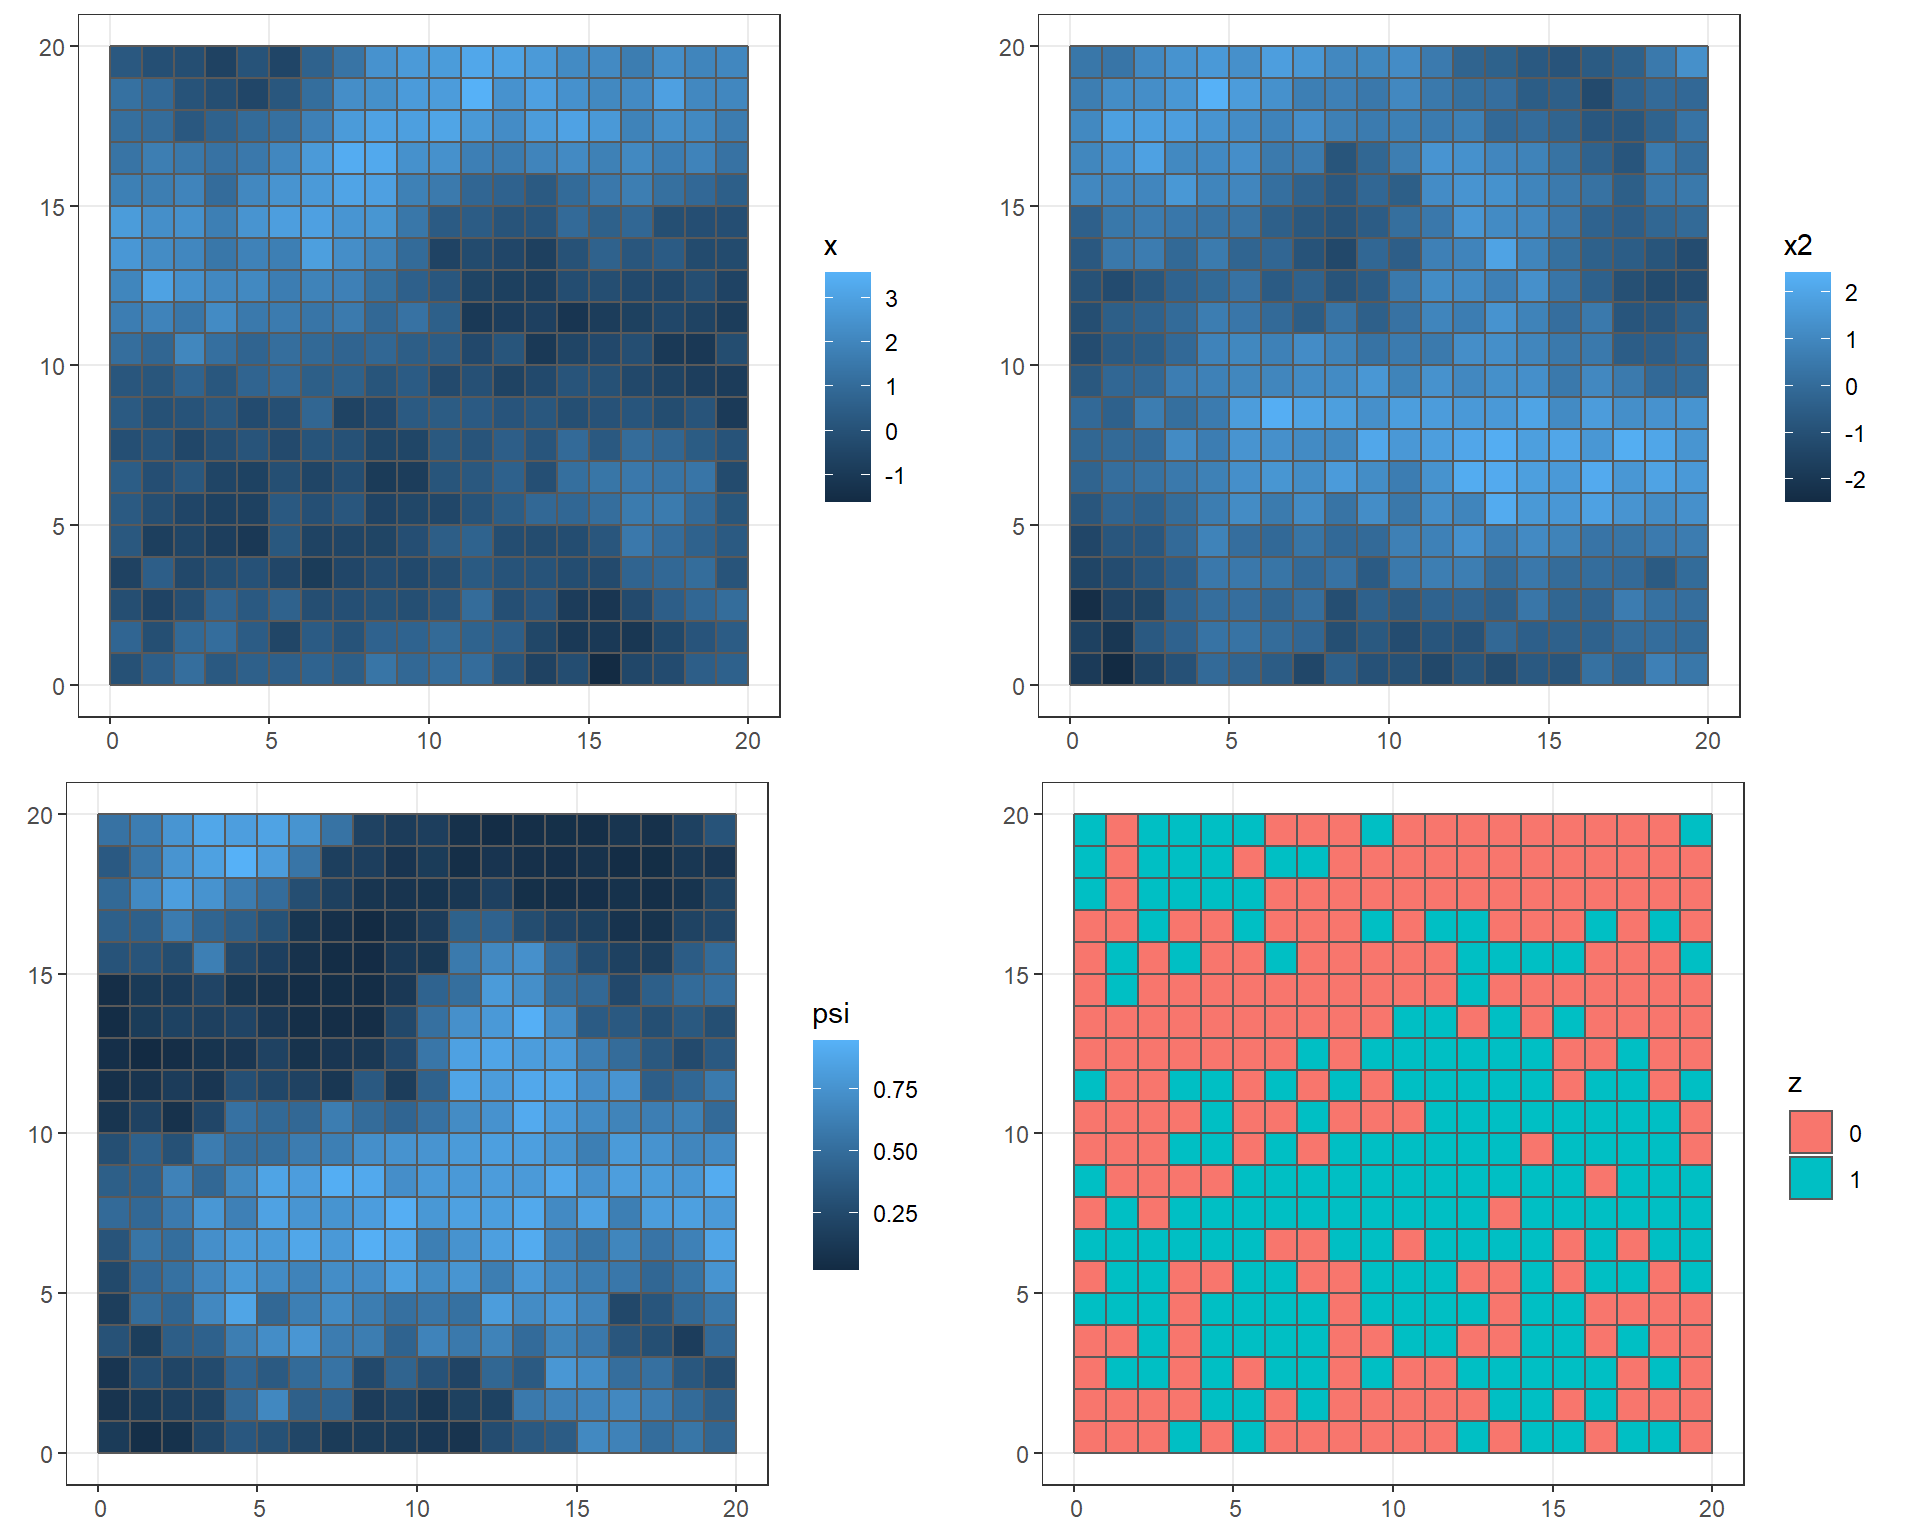
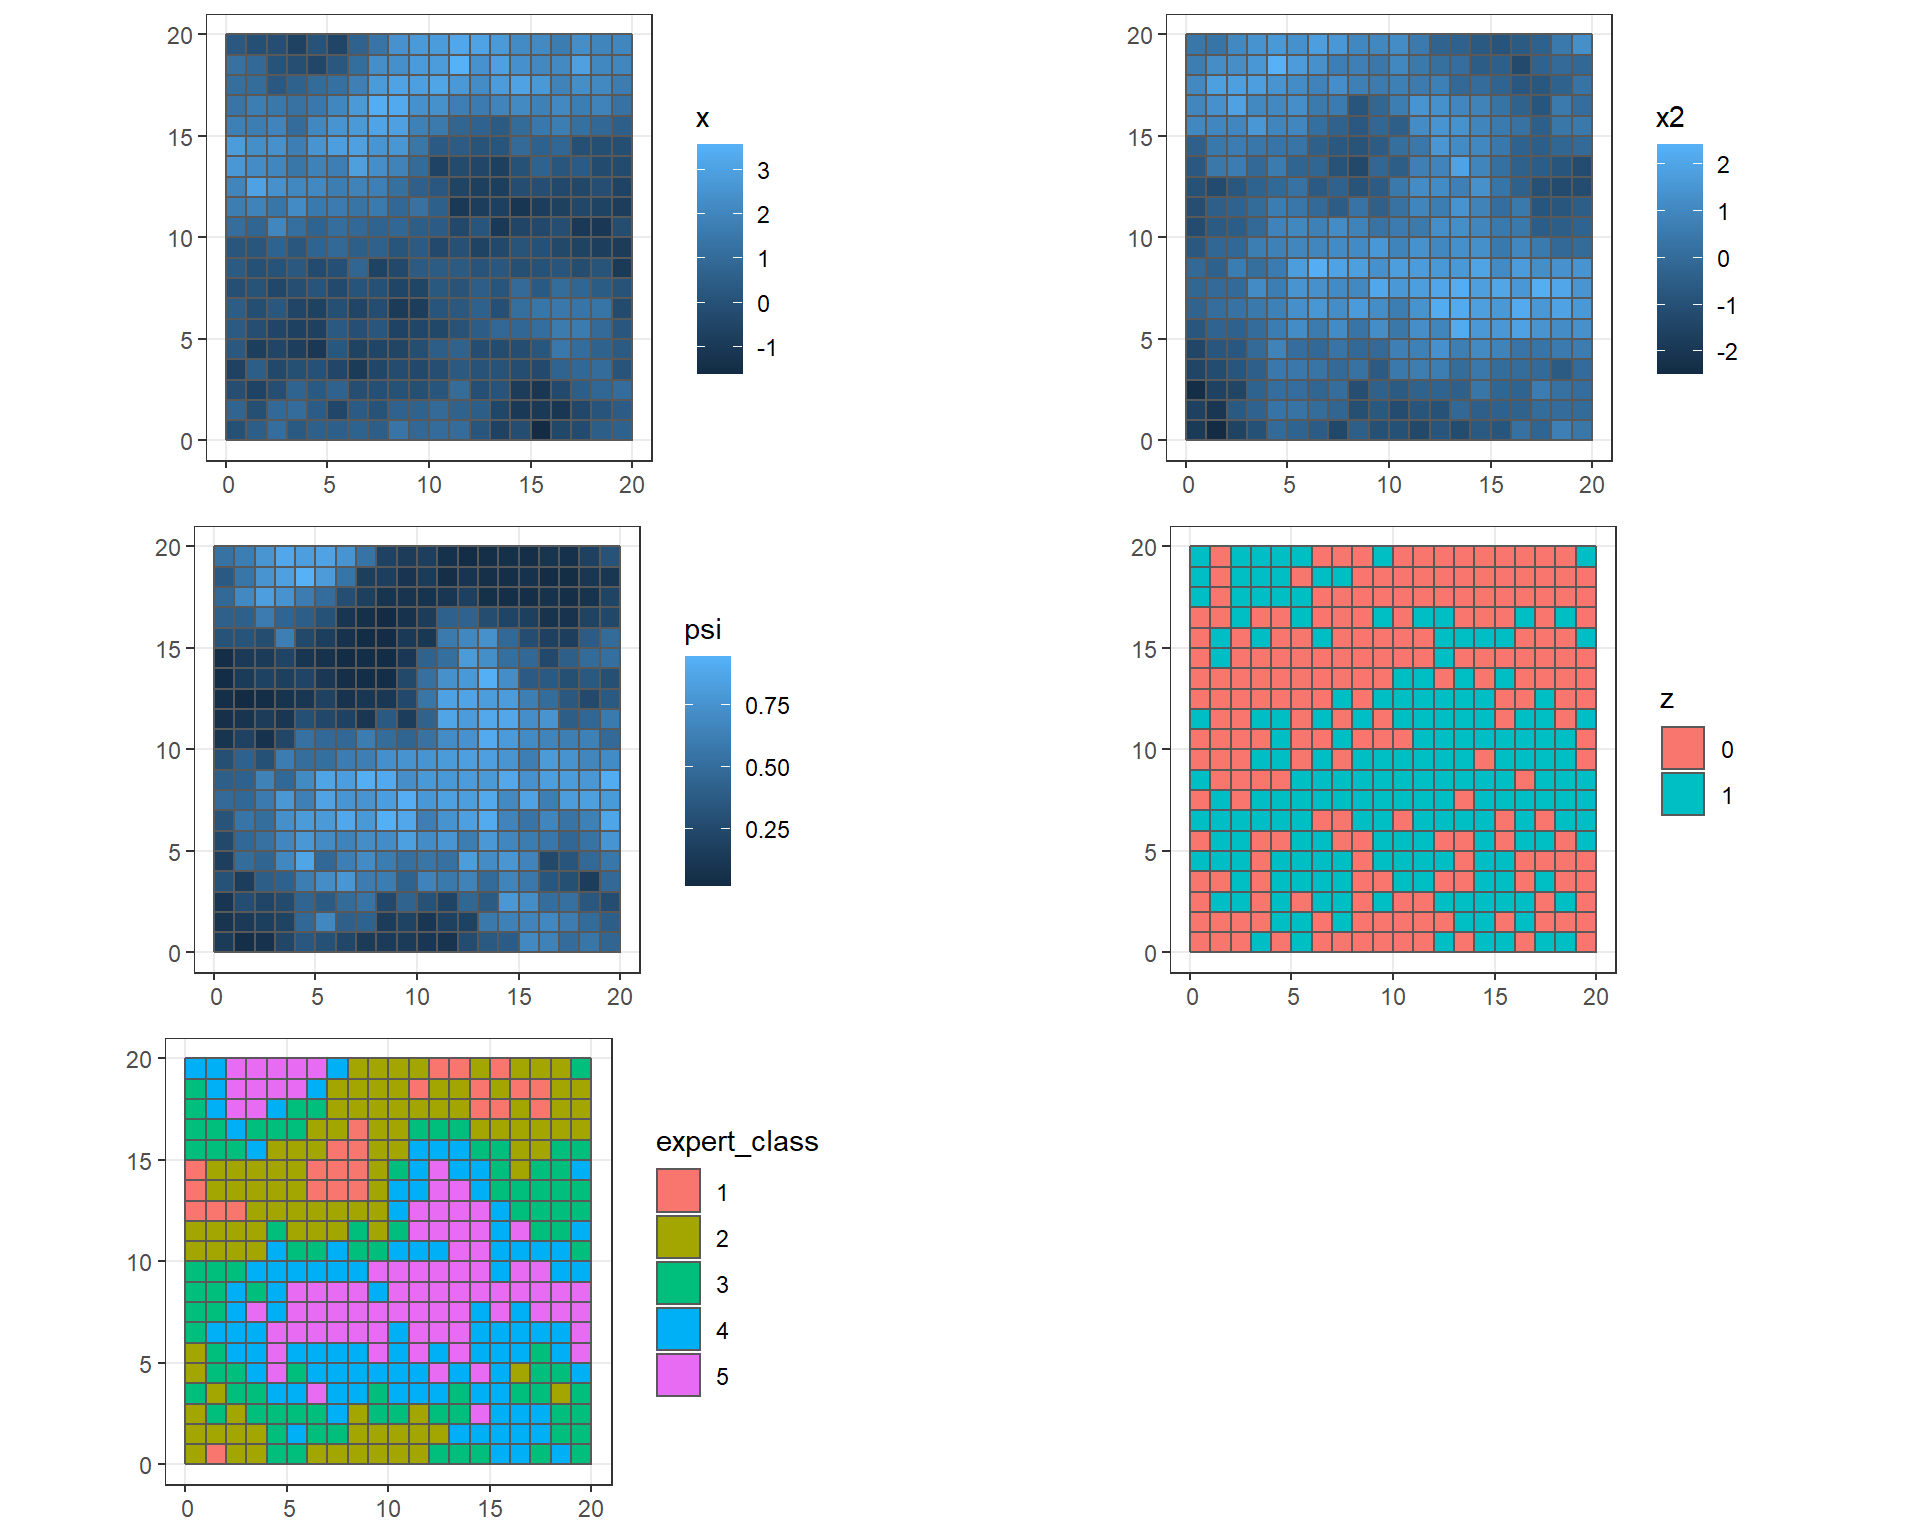
added map of expert specified classes

diff --git a/index.html b/index.html
@@ -115,8 +115,8 @@ code span.wa { color: #5e5e5e; font-style: italic; } /* Warning */
 
 
   <!--  https://schema.org/Article -->
-  <meta property="article:published" itemprop="datePublished" content="2022-10-14"/>
-  <meta property="article:created" itemprop="dateCreated" content="2022-10-14"/>
+  <meta property="article:published" itemprop="datePublished" content="2022-11-04"/>
+  <meta property="article:created" itemprop="dateCreated" content="2022-11-04"/>
   <meta name="article:author" content="Christian Stratton"/>
   <meta name="article:author" content="Kathryn Irvine"/>
   <meta name="article:author" content="Brad Udell"/>
@@ -138,7 +138,7 @@ code span.wa { color: #5e5e5e; font-style: italic; } /* Warning */
   <!--radix_placeholder_rmarkdown_metadata-->
 
   <script type="text/json" id="radix-rmarkdown-metadata">
-  {"type":"list","attributes":{"names":{"type":"character","attributes":{},"value":["title","description","author","date","output","bibliography","csl"]}},"value":[{"type":"character","attributes":{},"value":["Statistical methods for incoporating expert elicitation in occupancy modeling frameworks"]},{"type":"character","attributes":{},"value":["A simulation study in implementation of hierarchical models to accommodate expert elicitation with bat occupancy data\n"]},{"type":"list","attributes":{},"value":[{"type":"list","attributes":{"names":{"type":"character","attributes":{},"value":["name","affiliation","affiliation_url"]}},"value":[{"type":"character","attributes":{},"value":["Christian Stratton"]},{"type":"character","attributes":{},"value":["Montana State University"]},{"type":"character","attributes":{},"value":["https://math.montana.edu/"]}]},{"type":"list","attributes":{"names":{"type":"character","attributes":{},"value":["name","affiliation","affiliation_url"]}},"value":[{"type":"character","attributes":{},"value":["Kathryn Irvine"]},{"type":"character","attributes":{},"value":["USGS Northern Rocky Mountain Science Center"]},{"type":"character","attributes":{},"value":["https://www.usgs.gov/centers/norock"]}]},{"type":"list","attributes":{"names":{"type":"character","attributes":{},"value":["name","affiliation","affiliation_url"]}},"value":[{"type":"character","attributes":{},"value":["Brad Udell"]},{"type":"character","attributes":{},"value":["USGS Fort Collins Science Center"]},{"type":"character","attributes":{},"value":["https://www.usgs.gov/centers/fort-collins-science-center"]}]},{"type":"list","attributes":{"names":{"type":"character","attributes":{},"value":["name","affiliation","affiliation_url"]}},"value":[{"type":"character","attributes":{},"value":["Brian Reichert"]},{"type":"character","attributes":{},"value":["USGS Fort Collins Science Center"]},{"type":"character","attributes":{},"value":["https://www.usgs.gov/centers/fort-collins-science-center"]}]}]},{"type":"character","attributes":{},"value":["2022-10-14"]},{"type":"list","attributes":{"names":{"type":"character","attributes":{},"value":["distill::distill_article"]}},"value":[{"type":"list","attributes":{"names":{"type":"character","attributes":{},"value":["self_contained","toc","toc_depth"]}},"value":[{"type":"logical","attributes":{},"value":[false]},{"type":"logical","attributes":{},"value":[true]},{"type":"integer","attributes":{},"value":[2]}]}]},{"type":"character","attributes":{},"value":["bibliography.bib"]},{"type":"character","attributes":{},"value":["biometrics_notes.csl"]}]}
+  {"type":"list","attributes":{"names":{"type":"character","attributes":{},"value":["title","description","author","date","output","bibliography","csl"]}},"value":[{"type":"character","attributes":{},"value":["Statistical methods for incoporating expert elicitation in occupancy modeling frameworks"]},{"type":"character","attributes":{},"value":["A simulation study in implementation of hierarchical models to accommodate expert elicitation with bat occupancy data\n"]},{"type":"list","attributes":{},"value":[{"type":"list","attributes":{"names":{"type":"character","attributes":{},"value":["name","affiliation","affiliation_url"]}},"value":[{"type":"character","attributes":{},"value":["Christian Stratton"]},{"type":"character","attributes":{},"value":["Montana State University"]},{"type":"character","attributes":{},"value":["https://math.montana.edu/"]}]},{"type":"list","attributes":{"names":{"type":"character","attributes":{},"value":["name","affiliation","affiliation_url"]}},"value":[{"type":"character","attributes":{},"value":["Kathryn Irvine"]},{"type":"character","attributes":{},"value":["USGS Northern Rocky Mountain Science Center"]},{"type":"character","attributes":{},"value":["https://www.usgs.gov/centers/norock"]}]},{"type":"list","attributes":{"names":{"type":"character","attributes":{},"value":["name","affiliation","affiliation_url"]}},"value":[{"type":"character","attributes":{},"value":["Brad Udell"]},{"type":"character","attributes":{},"value":["USGS Fort Collins Science Center"]},{"type":"character","attributes":{},"value":["https://www.usgs.gov/centers/fort-collins-science-center"]}]},{"type":"list","attributes":{"names":{"type":"character","attributes":{},"value":["name","affiliation","affiliation_url"]}},"value":[{"type":"character","attributes":{},"value":["Brian Reichert"]},{"type":"character","attributes":{},"value":["USGS Fort Collins Science Center"]},{"type":"character","attributes":{},"value":["https://www.usgs.gov/centers/fort-collins-science-center"]}]}]},{"type":"character","attributes":{},"value":["2022-11-04"]},{"type":"list","attributes":{"names":{"type":"character","attributes":{},"value":["distill::distill_article"]}},"value":[{"type":"list","attributes":{"names":{"type":"character","attributes":{},"value":["self_contained","toc","toc_depth"]}},"value":[{"type":"logical","attributes":{},"value":[false]},{"type":"logical","attributes":{},"value":[true]},{"type":"integer","attributes":{},"value":[2]}]}]},{"type":"character","attributes":{},"value":["bibliography.bib"]},{"type":"character","attributes":{},"value":["biometrics_notes.csl"]}]}
   </script>
   <!--/radix_placeholder_rmarkdown_metadata-->
   
@@ -1514,7 +1514,7 @@ code span.wa { color: #5e5e5e; font-style: italic; } /* Warning */
 <!--radix_placeholder_front_matter-->
 
 <script id="distill-front-matter" type="text/json">
-{"title":"Statistical methods for incoporating expert elicitation in occupancy modeling frameworks","description":"A simulation study in implementation of hierarchical models to accommodate expert elicitation with bat occupancy data","authors":[{"author":"Christian Stratton","authorURL":"#","affiliation":"Montana State University","affiliationURL":"https://math.montana.edu/","orcidID":""},{"author":"Kathryn Irvine","authorURL":"#","affiliation":"USGS Northern Rocky Mountain Science Center","affiliationURL":"https://www.usgs.gov/centers/norock","orcidID":""},{"author":"Brad Udell","authorURL":"#","affiliation":"USGS Fort Collins Science Center","affiliationURL":"https://www.usgs.gov/centers/fort-collins-science-center","orcidID":""},{"author":"Brian Reichert","authorURL":"#","affiliation":"USGS Fort Collins Science Center","affiliationURL":"https://www.usgs.gov/centers/fort-collins-science-center","orcidID":""}],"publishedDate":"2022-10-14T00:00:00.000-06:00","citationText":"Stratton, et al., 2022"}
+{"title":"Statistical methods for incoporating expert elicitation in occupancy modeling frameworks","description":"A simulation study in implementation of hierarchical models to accommodate expert elicitation with bat occupancy data","authors":[{"author":"Christian Stratton","authorURL":"#","affiliation":"Montana State University","affiliationURL":"https://math.montana.edu/","orcidID":""},{"author":"Kathryn Irvine","authorURL":"#","affiliation":"USGS Northern Rocky Mountain Science Center","affiliationURL":"https://www.usgs.gov/centers/norock","orcidID":""},{"author":"Brad Udell","authorURL":"#","affiliation":"USGS Fort Collins Science Center","affiliationURL":"https://www.usgs.gov/centers/fort-collins-science-center","orcidID":""},{"author":"Brian Reichert","authorURL":"#","affiliation":"USGS Fort Collins Science Center","affiliationURL":"https://www.usgs.gov/centers/fort-collins-science-center","orcidID":""}],"publishedDate":"2022-11-04T00:00:00.000-06:00","citationText":"Stratton, et al., 2022"}
 </script>
 
 <!--/radix_placeholder_front_matter-->
@@ -1548,7 +1548,7 @@ class="uri">https://www.usgs.gov/centers/fort-collins-science-center</a>
 href="https://www.usgs.gov/centers/fort-collins-science-center"
 class="uri">https://www.usgs.gov/centers/fort-collins-science-center</a>
   
-<br/>2022-10-14
+<br/>2022-11-04
 </div>
 
 <div class="d-article">
